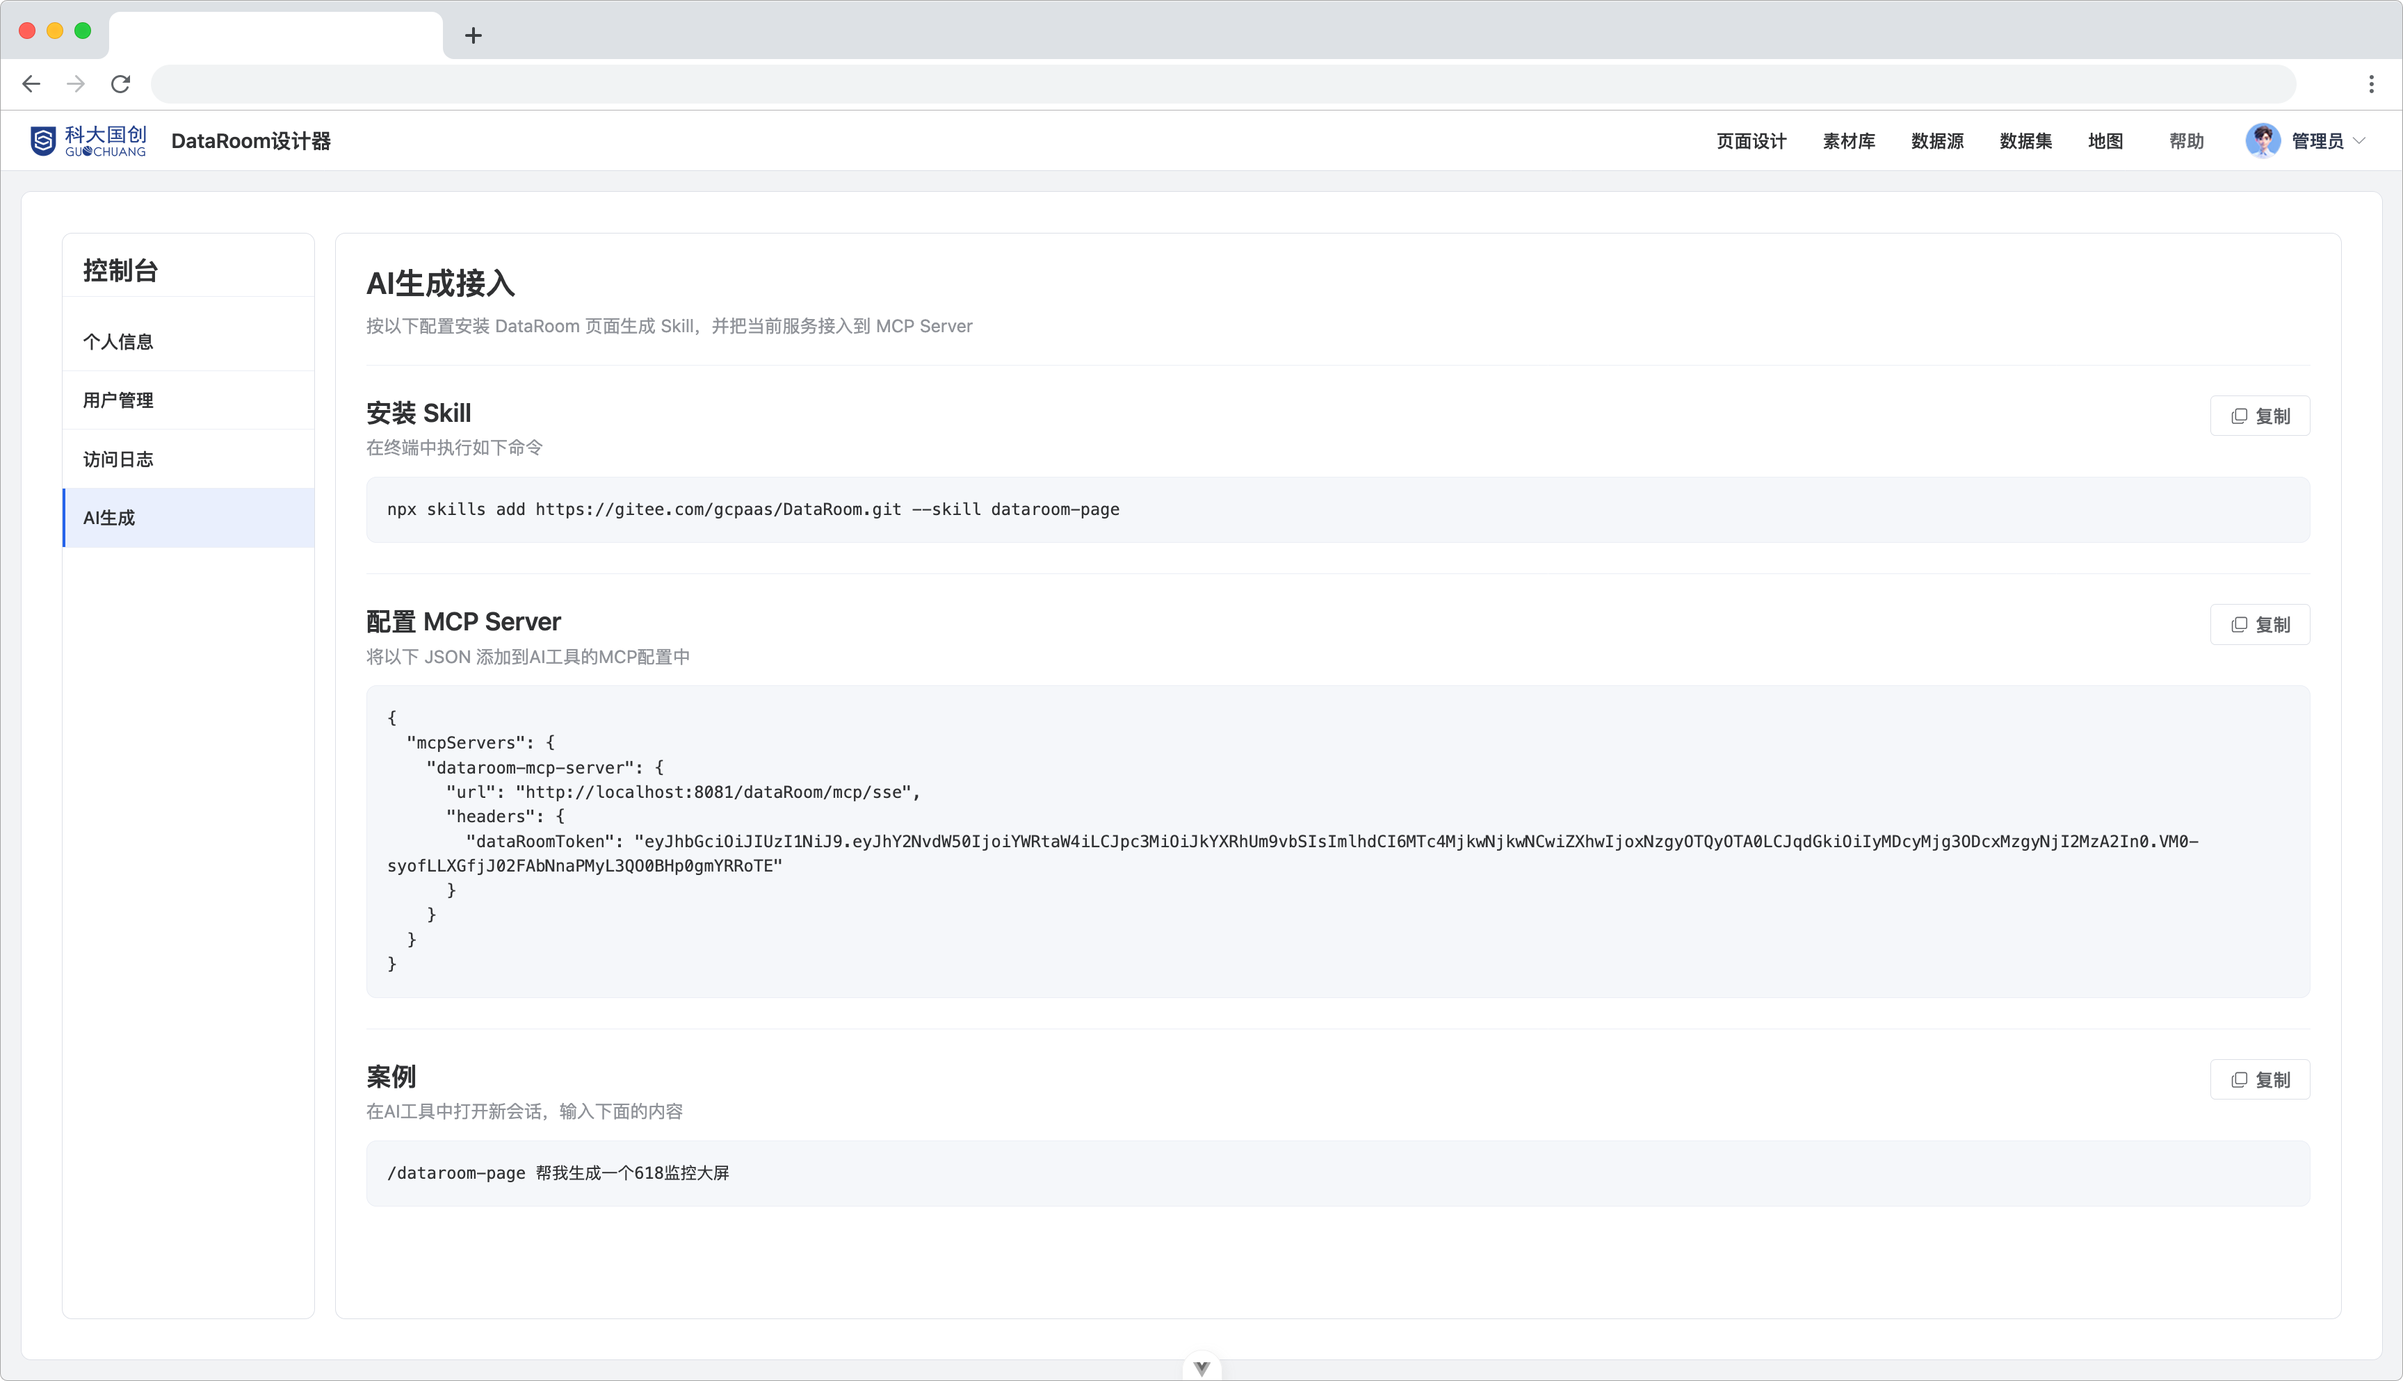
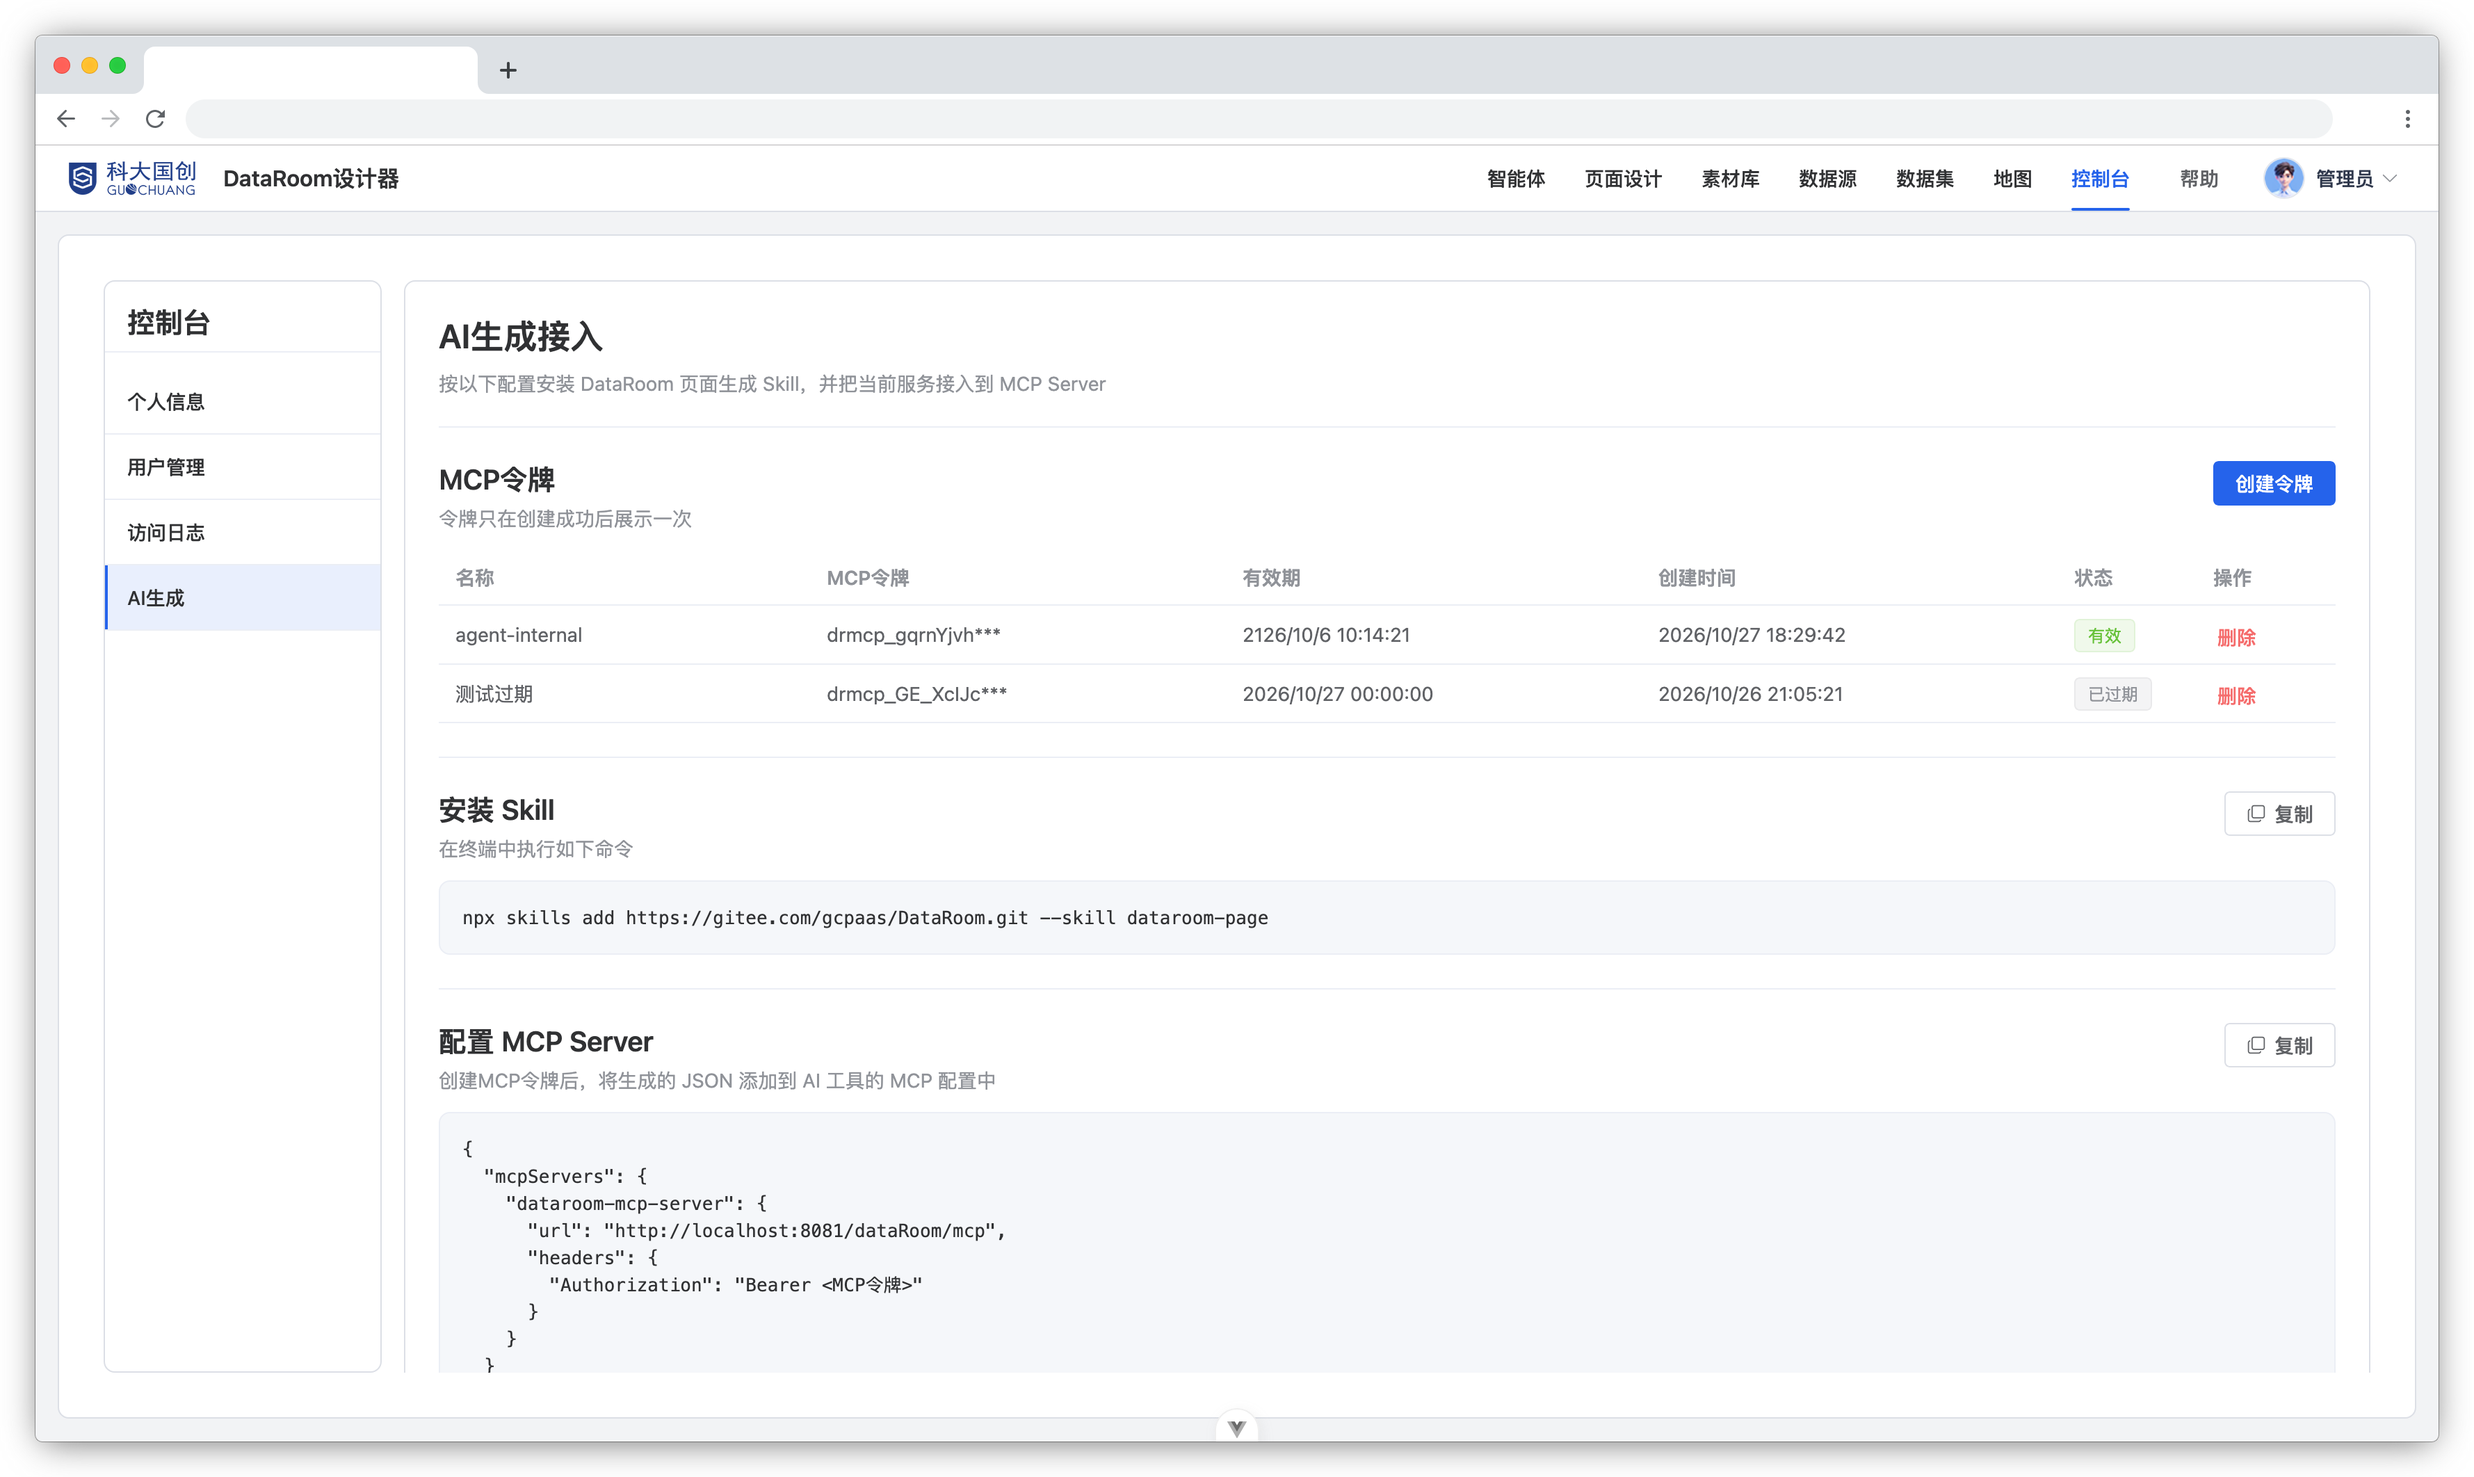
优化agent体验与交互

diff --git a/dataRoomFront/src/dataRoom/ai-generation/index.vue b/dataRoomFront/src/dataRoom/ai-generation/index.vue
@@ -144,6 +144,7 @@ const copyText = async (text: string) => {
 </script>
 
 <template>
+  <el-scrollbar height="100%" :view-style="{ minHeight: '100%', display: 'flex', flexDirection: 'column' }">
   <div class="dr-ai-generation">
     <header class="dr-ai-generation__header">
       <div>
@@ -193,7 +194,9 @@ const copyText = async (text: string) => {
         </div>
         <el-button :icon="CopyDocument" @click="copyText(action.content)">复制</el-button>
       </div>
-      <pre class="dr-ai-generation__code"><code>{{ action.content }}</code></pre>
+      <el-scrollbar class="dr-ai-generation__code-scrollbar">
+        <pre class="dr-ai-generation__code"><code>{{ action.content }}</code></pre>
+      </el-scrollbar>
     </section>
 
     <el-dialog
@@ -241,7 +244,9 @@ const copyText = async (text: string) => {
           </div>
           <div class="dr-ai-generation__created-field">
             <div id="created-mcp-config-label" class="dr-ai-generation__field-label">MCP Server 配置</div>
-            <pre aria-labelledby="created-mcp-config-label" class="dr-ai-generation__code"><code>{{ formattedMcpConfig }}</code></pre>
+            <el-scrollbar class="dr-ai-generation__code-scrollbar">
+              <pre aria-labelledby="created-mcp-config-label" class="dr-ai-generation__code"><code>{{ formattedMcpConfig }}</code></pre>
+            </el-scrollbar>
           </div>
         </div>
       </template>
@@ -258,11 +263,13 @@ const copyText = async (text: string) => {
       </template>
     </el-dialog>
   </div>
+  </el-scrollbar>
 </template>
 
 <style scoped lang="scss">
 .dr-ai-generation {
-  min-height: 100%;
+  flex: 1;
+  min-width: 0;
   box-sizing: border-box;
   background: var(--el-fill-color-blank);
   border: 1px solid var(--el-border-color);
@@ -356,9 +363,12 @@ const copyText = async (text: string) => {
     letter-spacing: 0;
   }
 
+  &__code-scrollbar {
+    width: 100%;
+  }
+
   &__code {
     margin: 0;
-    overflow: auto;
     padding: 16px;
     background: var(--el-fill-color-light);
     border: 1px solid var(--el-border-color-lighter);

diff --git a/dataRoomFront/src/dataRoom/dataset/index.vue b/dataRoomFront/src/dataRoom/dataset/index.vue
@@ -6,6 +6,7 @@ import {datasetApi, type DatasetEntity, type DatasetTreeNode} from './api'
 import {dataSourceApi, type DataSourceEntity} from '../data-source/api'
 import { isStreamingDatasetType } from './streaming-dataset'
 import { fieldTypeLabel } from './field-type'
+import directoryIcon from './assets/images/directory.svg'
 
 // 定义 props
 const props = defineProps<{
@@ -702,7 +703,7 @@ const handleTestAndSave = async () => {
 
               <div class="node-content">
                 <el-icon v-if="data.datasetType === 'directory'" class="node-icon">
-                  <Folder/>
+                  <img :src="directoryIcon" width="14" height="14" alt="" aria-hidden="true" />
                 </el-icon>
                 <el-icon v-else class="node-icon">
                   <Document/>
